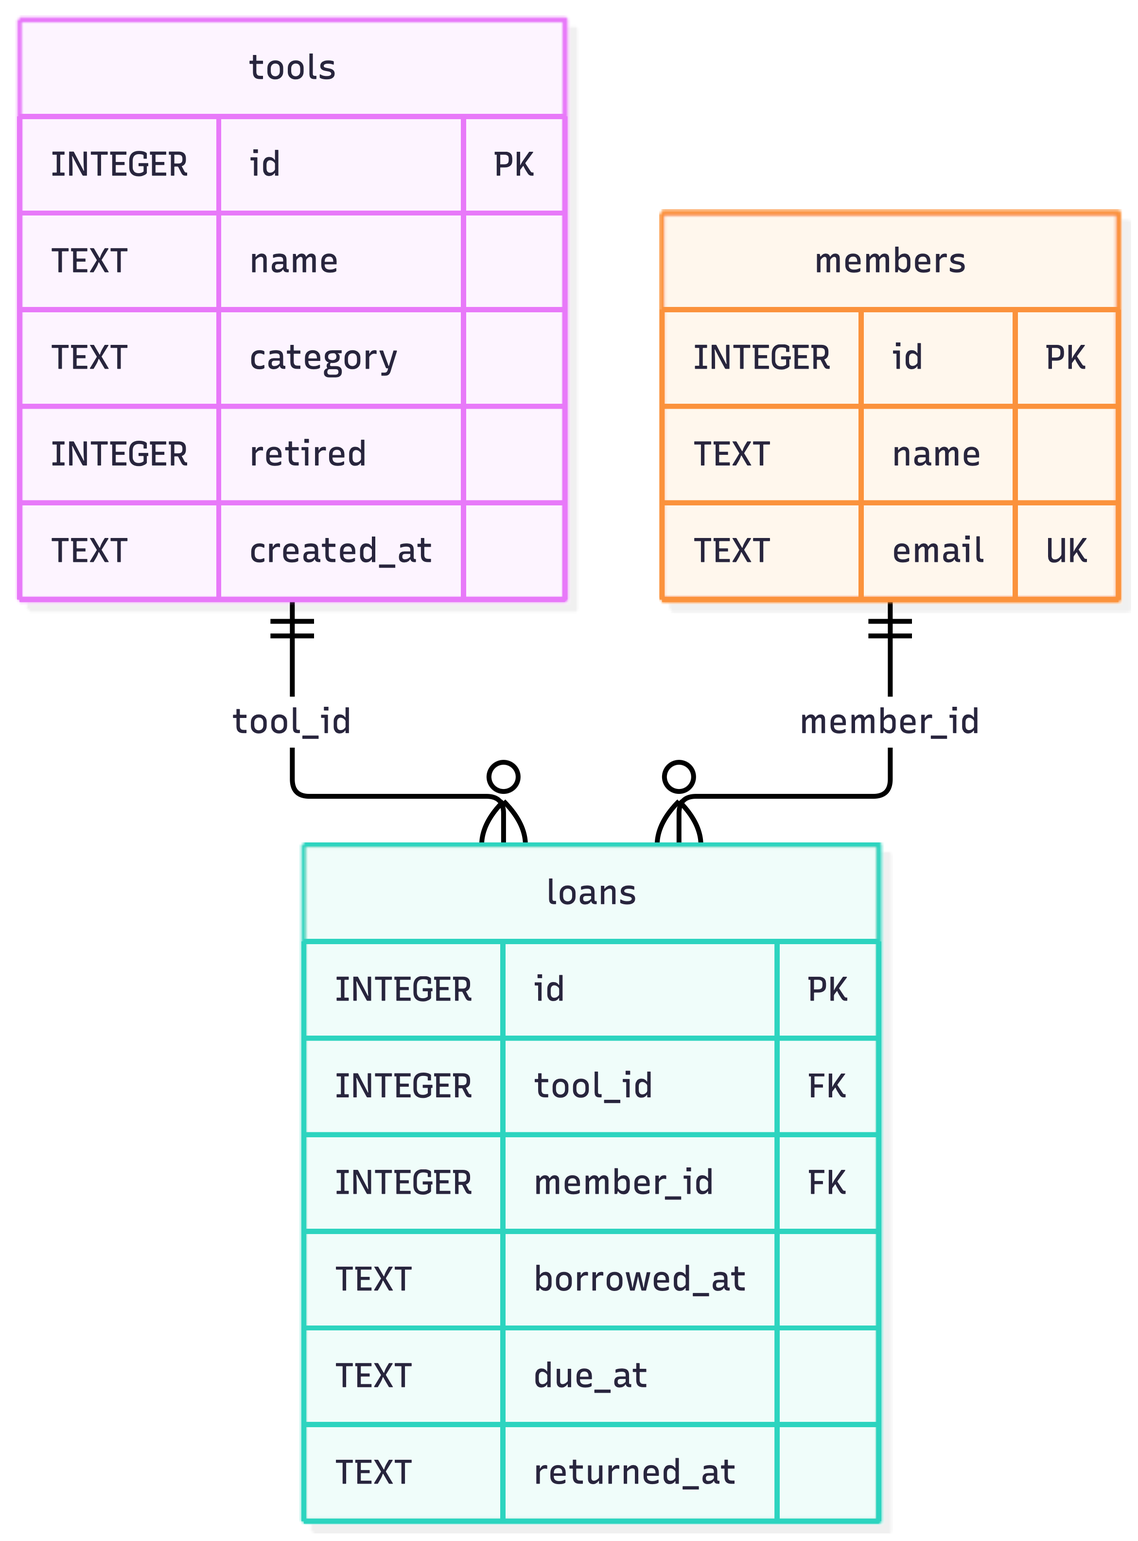
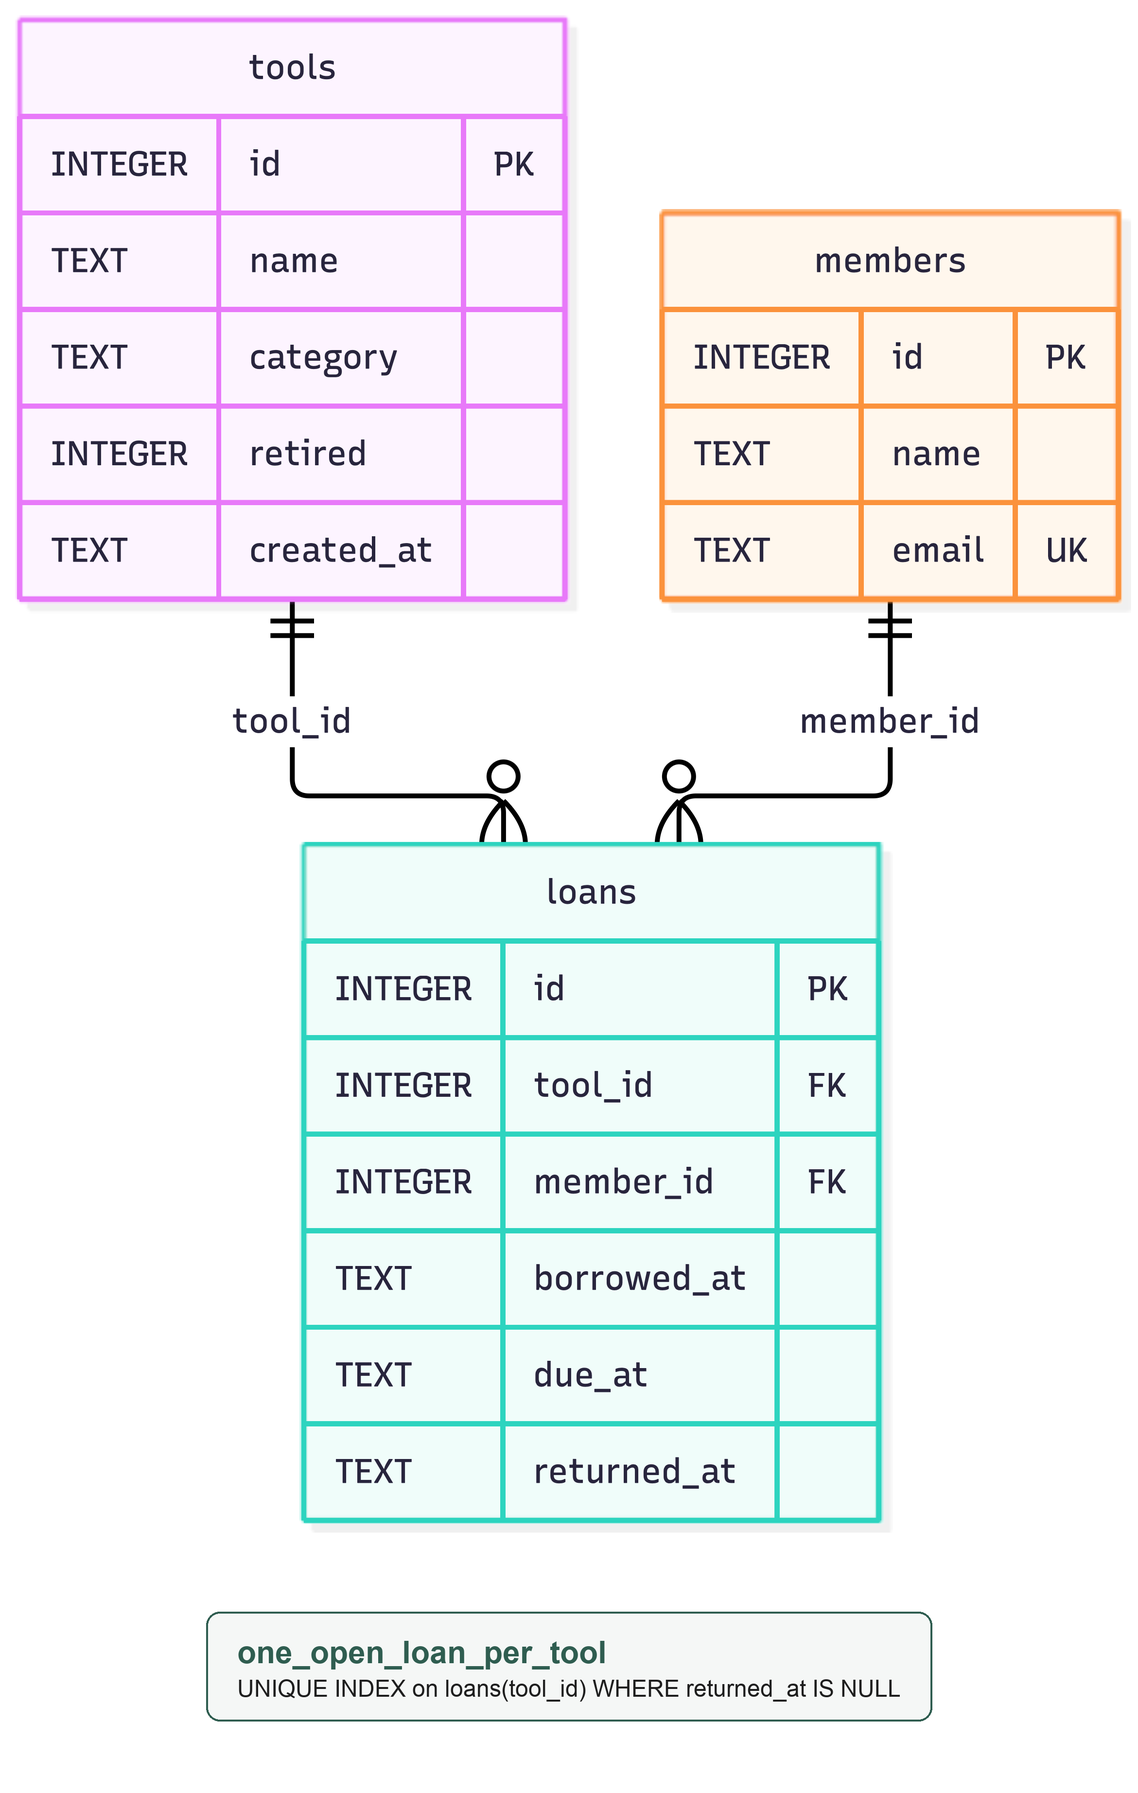
Prove a second open loan fails in SQLite, and pass the provided container check.

Changed region(s): [[0.0, 0.0, 0.9979, 1.0]]

diff --git a/tests/test_loans.py b/tests/test_loans.py
@@ -1,3 +1,5 @@
+import sqlite3
+
 import pytest
 
 from lend.db import connect, init_db
@@ -84,6 +86,35 @@ def test_borrow_tool_refuses_a_missing_member(db):
     tool_id = insert_tool(db)
     with pytest.raises(MemberNotFound):
         borrow_tool(db, tool_id, 99, now="2026-10-06T12:00:00+00:00")
+
+
+def test_open_loan_index_rejects_a_second_open_row(db):
+    tool_id = insert_tool(db)
+    member_id = add_member(db, "Ada", "ada@example.com")
+    borrowed = "2026-10-06T12:00:00+00:00"
+    due = "2026-10-13T12:00:00+00:00"
+
+    def insert_loan(returned_at):
+        db.execute(
+            """
+            INSERT INTO loans (tool_id, member_id, borrowed_at, due_at, returned_at)
+            VALUES (?, ?, ?, ?, ?)
+            """,
+            (tool_id, member_id, borrowed, due, returned_at),
+        )
+
+    insert_loan(None)
+    db.commit()
+    insert_loan("2026-10-07T12:00:00+00:00")
+    db.commit()
+    with pytest.raises(sqlite3.IntegrityError):
+        insert_loan(None)
+    db.rollback()
+    open_rows = db.execute(
+        "SELECT id FROM loans WHERE tool_id = ? AND returned_at IS NULL",
+        (tool_id,),
+    ).fetchall()
+    assert len(open_rows) == 1
 
 
 def test_borrow_tool_refuses_a_second_open_loan(db):

diff --git a/lend/db.py b/lend/db.py
@@ -51,25 +51,3 @@ def init_db():
         connection.executescript(SCHEMA)
     finally:
         connection.close()
-
-
-def database_summary():
-    path = database_path()
-    connection = connect()
-    try:
-        row = connection.execute(
-            """
-            SELECT
-              (SELECT COUNT(*) FROM tools) AS tools,
-              (SELECT COUNT(*) FROM members) AS members,
-              (SELECT COUNT(*) FROM loans) AS loans
-            """
-        ).fetchone()
-    finally:
-        connection.close()
-    return {
-        "path": str(path),
-        "tools": row["tools"],
-        "members": row["members"],
-        "loans": row["loans"],
-    }

diff --git a/AI_USAGE.md b/AI_USAGE.md
@@ -1,15 +1,17 @@
 | Date/commit | Tool | Prompt | Disposition (Accepted/Modified/Rejected) | What changed & why (if modified) | In my own words, how this works |
 |---|---|---|---|---|---|
 | 2026-09-30 | Cursor | Give me the following files: startup contract for Lend (PORT, DATA_DIR, 0.0.0.0, SQLite schema) plus ADR-1. | Accepted |  | `main` calls `init_db`, reads `PORT` (default 5000), and runs Flask on `0.0.0.0` with the reloader off. `database_path` joins `DATA_DIR` (default `data`) with `lend.db`. `connect` creates that directory, opens SQLite, turns on foreign keys, and returns rows as `sqlite3.Row`. `init_db` runs `SCHEMA`, which creates `tools`, `members`, `loans`, and the partial unique index `one_open_loan_per_tool` on `loans.tool_id` where `returned_at` is null. |
-| 2026-09-30 | Cursor | Render the home page with Jinja and show the SQLite file plus table counts. | Accepted |  | `main` still calls `init_db` before `create_app`, so the tables exist before the first request. `home` calls `database_summary` and passes that dict to `render_template` as `summary`. `database_summary` opens a connection, runs one SELECT of three COUNT subqueries, and returns `path`, `tools`, `members`, and `loans`. `home.html` prints those fields. Jinja escapes them. |
+| 2026-09-30 | Cursor | Render the home page with Jinja and show the SQLite file plus table counts. | Accepted |  | On that commit, `main` called `init_db` before `create_app`. `home` called `database_summary` and passed that dict to `render_template` as `summary`. `database_summary` opened a connection, ran one SELECT of three COUNT subqueries, and returned `path`, `tools`, `members`, and `loans`. `home.html` printed those fields. The 8 October desk replaced this. |
 | 2026-09-30 | Cursor | Catalog add, list, and retire, plus ADR-2. | Accepted |  | `add_tool` strips the name and category, rejects blanks, and inserts a row with `retired` 0. `list_tools` returns those rows as dicts ordered by name. `retire_tool` loads the tool, returns immediately if it is already retired, and raises `ToolIsOut` when a loan has `returned_at` null. Otherwise it sets `retired` to 1. The `/tools` routes open a connection, call one of those functions, and redirect back to the list. |
 | 2026-10-05 | Cursor | First commit of the day: register a member and borrow an available tool for seven days. | Accepted |  | `add_member` strips the name and lowercases the email, rejects a missing name or an email without `@`, and inserts into `members`. A duplicate email raises `LoanError`. `borrow_tool` starts an immediate transaction, refuses a missing or retired tool, refuses a missing member, and refuses a tool that already has a loan with `returned_at` null. It inserts into `loans` with `due_at` set by `due_at_for`, which adds `LOAN_DAYS` (7) to `borrowed_at`. The unique index `one_open_loan_per_tool` is the backstop. `/loans` lists members, available tools, and open loans. |
 | 2026-10-05 | Cursor | Second commit of the day: record a return, show overdue from the due date, and write ADR-3. | Accepted |  | `return_tool` loads the loan, raises `LoanNotFound` when the id is missing, and returns immediately when `returned_at` is already set. Otherwise it stores the current time in `returned_at` and does not update `tools`. `is_overdue` is false when `returned_at` is set. For an open loan it parses `now` and `due_at` and returns true when `now` is later. `list_open_loans` adds that boolean as `overdue`. The loans page posts to `/loans/<id>/return` and prints Overdue beside the due date. |
 | 2026-10-06 | Cursor | First commit of the day: catalog tests on a temporary SQLite file for add, list, and retire. | Accepted |  | `tests/test_catalog.py` sets `DATA_DIR` to a temporary folder, calls `init_db()`, and opens `connect()`. `test_add_tool_rejects_blank_name_and_writes_nothing` expects `CatalogError` and an empty `list_tools`. `test_add_tool_stores_an_available_tool` checks the stripped name and `retired` false. `test_retire_tool_refuses_a_tool_with_an_open_loan` inserts a member and a loan with `returned_at` null, then expects `ToolIsOut` and `retired` still false. `test_retire_tool_raises_for_an_unknown_id` expects `ToolNotFound`. |
-| 2026-10-06 | Cursor | Second commit of the day: loan tests, the coverage command and 96% result in the README, and ADR-4. | Accepted |  | `tests/test_loans.py` uses a temporary `DATA_DIR` like the catalog tests. `test_borrow_tool_sets_due_at_seven_days_later` checks `due_at_for` by borrowing at `2026-10-06T12:00:00+00:00` and expecting `2026-10-13T12:00:00+00:00`. `test_return_tool_closes_the_loan_and_frees_the_tool` calls `return_tool`, then checks that `list_open_loans` is empty, `list_available_tools` contains the hammer, and `tools.retired` is still 0. `test_is_overdue_is_true_only_for_an_open_loan_past_due` checks the three cases of `is_overdue`. `init_db` and `database_summary` now close their connections because a `with` block on a SQLite connection commits and does not close it. |
-| 2026-10-08 | Cursor | First commit of the day: ADR-5, no reminder worker. | Accepted |  | ADR-5 says overdue is not stored and no job sends email. `list_open_loans` calls `is_overdue` while it reads loans whose `returned_at` is null. `is_overdue` parses `now` and `due_at` and returns true only when `now` is later. After `return_tool` sets `returned_at`, that loan drops out of `list_open_loans`, so the page no longer shows it as overdue. |
+| 2026-10-06 | Cursor | Second commit of the day: loan tests, the coverage command and 96% result in the README, and ADR-4. | Accepted |  | `tests/test_loans.py` uses a temporary `DATA_DIR` like the catalog tests. `test_borrow_tool_sets_due_at_seven_days_later` checks `due_at_for` by borrowing at `2026-10-06T12:00:00+00:00` and expecting `2026-10-13T12:00:00+00:00`. `test_return_tool_closes_the_loan_and_frees_the_tool` calls `return_tool`, then checks that `list_open_loans` is empty, `list_available_tools` contains the hammer, and `tools.retired` is still 0. `test_is_overdue_is_true_only_for_an_open_loan_past_due` checks the three cases of `is_overdue`. On that commit, `init_db` and `database_summary` closed their connections, because a `with` block on a SQLite connection commits and does not close it. |
+| 2026-10-08 | Cursor | First commit of the day: ADR-5, no reminder to the member. | Accepted |  | ADR-5 refuses email and a second worker. The volunteer sees Overdue because `list_open_loans` calls `is_overdue` on loans whose `returned_at` is null. `is_overdue` parses `now` and `due_at` and returns true only when `now` is later. After `return_tool` sets `returned_at`, that loan drops out of `list_open_loans`. Whether overdue is stored is ADR-3. |
 | 2026-10-08 | Cursor | Second commit of the day: SDLC section in REPORT.md with the iterative process and the SMART goals the repo met. | Accepted |  | `REPORT.md` says the build was iterative: startup and catalog on 30 September, loans on 5 October, tests on 6 October. The startup goal is `python app.py` binding `0.0.0.0` and creating `$DATA_DIR/lend.db`. The catalog goal is `add_tool` and `retire_tool`. The loans goal is `borrow_tool`, `due_at_for`, `return_tool`, and `is_overdue`. The test goal is 96% from `pytest --cov=lend.catalog --cov=lend.loans --cov-report=term-missing`. The section also says no volunteer tried the desk, and the diagrams come later. |
-| 2026-10-08 | Cursor | Style the desk and explain the three-step journey so the home page shows what is free, out, and overdue. | Accepted |  | `home` calls `list_available_tools` and `list_open_loans` on one connection. `desk["free"]` is the length of the available list. `desk["out"]` is the length of the open loans. `desk["overdue"]` counts loans whose `overdue` flag is true. `list_open_loans` now includes `tool_id`. `render_tools` builds `open_ids` from those ids. The tools template shows Out when `tool.id` is in `open_ids`, and hides Retire in that case. The home template lists three steps: add a tool, add a member, lend for seven days. The loans template renders the Out now table before the forms. |
+| 2026-10-08 | Cursor | Style the desk and explain the three-step journey so the home page shows what is free, out, and overdue. | Accepted |  | This replaced the 30 September home page. `home` no longer calls `database_summary`. It calls `list_available_tools` and `list_open_loans` on one connection. `desk["free"]` is the length of the available list. `desk["out"]` is the length of the open loans. `desk["overdue"]` counts loans whose `overdue` flag is true. `list_open_loans` includes `tool_id`. `render_tools` builds `open_ids` from those ids. The tools template shows Out when `tool.id` is in `open_ids`, and hides Retire in that case. The home template lists three steps: add a tool, add a member, lend for seven days. The loans template renders the Out now table before the forms. |
 | 2026-10-08 | Cursor | Add a history page of returned loans and a repeat action that lends the same tool and member for another seven days. | Accepted |  | `list_loan_history` selects loans whose `returned_at` is not null, newest return first. `repeat_loan` loads that row, raises `LoanNotFound` if the id is missing, and raises `LoanError` if `returned_at` is still null. Otherwise it calls `borrow_tool` with the same `tool_id` and `member_id`, so `due_at_for` still adds `LOAN_DAYS` (7) and the old row is not changed. `GET /loans/history` renders that list. `POST /loans/<id>/repeat` redirects to the loans page on success. |
 | 2026-10-09 | Cursor | Add the architecture diagram to REPORT.md for the one process, catalog, and loans sharing SQLite. | Accepted |  | The diagram shows the browser hitting `app.py`. `app.py` renders the Jinja templates and calls either `lend/catalog.py` or `lend/loans.py`. Both call `connect` in `lend/db.py`, which opens `$DATA_DIR/lend.db`. History stays in the loans box because `list_loan_history` and `repeat_loan` live in `lend/loans.py`. `repeat_loan` calls `borrow_tool` in that same file. The dashed line from catalog to the database is `retire_tool` reading open loans with SQL, without importing `lend/loans.py`. |
-| 2026-10-11 | Cursor | Add the schema diagram for tools, members, and loans, including the one-open-loan index in the paragraph under the picture. | Accepted |  | `docs/schema.png` shows `tools`, `members`, and `loans`. `loans.tool_id` points at `tools.id` and `loans.member_id` points at `members.id`. `returned_at` is empty while the tool is out. The index `one_open_loan_per_tool` is not a column, so the paragraph says it allows only one loan row per tool with `returned_at` null. `is_overdue` reads `due_at` and does not store a flag. |
+| 2026-10-11 | Cursor | Add the schema diagram for tools, members, and loans, including the one-open-loan index in the paragraph under the picture. | Accepted |  | On that commit, `docs/schema.png` showed `tools`, `members`, and `loans`. `loans.tool_id` points at `tools.id` and `loans.member_id` points at `members.id`. `returned_at` is empty while the tool is out. The index was only in the paragraph: one loan row per tool with `returned_at` null. `is_overdue` reads `due_at` and does not store a flag. |
+| 2026-10-11 | Cursor | Prove the open-loan index with a direct insert, remove the unused home summary, and put the index on the schema figure. Narrow ADR-5 to the reminder, and walk one loan through the report. | Accepted |  | `test_open_loan_index_rejects_a_second_open_row` inserts one open loan and one returned loan for the same tool with SQL, then expects `sqlite3.IntegrityError` on a second open row. That is `one_open_loan_per_tool`, not the Python check in `borrow_tool`. `database_summary` is gone. Home already counts free, out, and overdue. ADR-5 rejects email and a notifications worker. The note on `docs/schema.png` names the index. The report walks add, borrow, overdue, return, and repeat. |
+| 2026-10-11 | Cursor | Copy the provided container template to the repo root and list the files the app needs to run. | Accepted |  | `Dockerfile` keeps the template's `python:3.12-slim`, `pip install -r requirements.txt`, `PORT=8000`, and `DATA_DIR=/data`. TODO 3 copies `app.py`, `lend/`, `templates/`, and `static/`. `CMD` is `python app.py`. `container/run.sh` reached HTTP 200 on port 8000 and on `PORT=9123`, found `lend.db` in `/data`, and saw the same row counts after a restart. |

diff --git a/REPORT.md b/REPORT.md
@@ -20,6 +20,20 @@ The goals below are the ones the repository actually met.
 
 What this process did not include is a volunteer sitting at the desk and trying the pages. I checked the flows myself: add a tool, retire it, refuse a retire while it is out, borrow, return, and see Overdue on a past due date. That is a developer check, not a user test. The schema below was drawn after those slices, because the tables and the seam between `lend/catalog.py` and `lend/loans.py` were still moving while the features landed.
 
+## One loan, end to end
+
+A volunteer adds a hammer on `/tools`. `add_tool` stores the name, the category, and `retired` as 0. They register a member on `/loans`. `add_member` stores the stripped name and a lowercased email, and rejects a second member with the same email. They lend the hammer. `borrow_tool` starts `BEGIN IMMEDIATE`, checks that the tool exists and is not retired, checks that the member exists, and checks that no loan for that tool still has `returned_at` null. It then inserts one row. `due_at_for` sets `due_at` to `borrowed_at` plus `LOAN_DAYS`, which is 7. The home page counts that hammer as out. `desk["free"]` no longer includes it.
+
+If the hammer is still out after `due_at`, `list_open_loans` calls `is_overdue` and the loans page shows Overdue on that row. Returning the hammer calls `return_tool`, which writes `returned_at` and leaves `tools.retired` at 0. The hammer is free again because `list_available_tools` hides a tool only when it is retired or has an open loan. The returned row shows on `/loans/history`. Repeat posts to `/loans/<id>/repeat`. `repeat_loan` calls `borrow_tool` with the same `tool_id` and `member_id`, so the old `returned_at` stays filled in and a new row is inserted for another seven days.
+
+The same rule is enforced in the database. `test_open_loan_index_rejects_a_second_open_row` inserts one open loan and one already returned loan for the same tool, then a second insert with `returned_at` null raises `sqlite3.IntegrityError`. That failure comes from `one_open_loan_per_tool`. `borrow_tool` also refuses a second open loan in Python, before the insert. The index is the backstop when that check is skipped.
+
+## Startup, and the seam Assignment 2 will use
+
+`python app.py` is the only start command. `main` calls `init_db` before it serves, so a fresh clone creates `$DATA_DIR/lend.db` with no prompt and no migration step. The process binds to `0.0.0.0` and reads `PORT`, which defaults to 5000. `connect` creates the data directory, turns on foreign keys, and returns rows as `sqlite3.Row`. The only dependency manifest is `requirements.txt` at the repo root. The app does not need a Dockerfile, a compose file, or a second process to run.
+
+Assignment 2 can split the two modules along the boundary that already exists. Catalog routes would keep `lend/catalog.py` and the `tools` table. Loan routes would keep `lend/loans.py`, `members`, and `loans`. The shared SQLite file is the part that would become two stores. Until then, `retire_tool` reads `loans` with SQL and does not import `lend/loans.py`. `borrow_tool` reads `tools.retired` through that same file.
+
 ## Architecture
 
 `python app.py` starts one process. The browser talks only to routes in `app.py`. Those routes render Jinja templates and `static/style.css` from the same process. Tool routes call `lend/catalog.py`. Loan, return, history, and repeat routes call `lend/loans.py`. Both modules ask `lend/db.py` for a connection, and that connection opens `$DATA_DIR/lend.db`.
@@ -32,6 +46,6 @@ History is a loans page, not a third domain. `repeat_loan` calls `borrow_tool` i
 
 `lend/db.py` creates three tables in `$DATA_DIR/lend.db`. Catalog owns `tools`. Loans owns `members` and `loans`. There is no history table. A returned loan stays in `loans` with `returned_at` filled in, and repeating it inserts a new row.
 
-`loans.tool_id` references `tools.id`, and `loans.member_id` references `members.id`. One tool and one member can each appear on many loan rows over time. The index `one_open_loan_per_tool` is the extra rule the picture cannot draw: only one row per tool may have an empty `returned_at`. While that field is empty, the tool is out. `is_overdue` compares `due_at` with the current time, so overdue is not a column.
+`loans.tool_id` references `tools.id`, and `loans.member_id` references `members.id`. One tool and one member can each appear on many loan rows over time. The note under the loans table is `one_open_loan_per_tool`: a unique index on `loans(tool_id)` where `returned_at` is null. It is not a column. While `returned_at` is empty, the tool is out. `is_overdue` compares `due_at` with the current time, so overdue is not a column either.
 
 ![Database schema of Lend](docs/schema.png)

diff --git a/ADR.md b/ADR.md
@@ -30,10 +30,10 @@ Decision: tests/test_catalog.py and tests/test_loans.py call add_tool, retire_to
 Alternatives considered: Coverage of the whole lend package, including app.py, rejected because untested route functions would make the percentage describe templates more than rules. Tests through the Flask client, rejected because they would repeat the same rules through form parsing.
 Consequences: A change to a borrow, return, retire, or overdue rule fails a test. A broken template can still pass this command.
 
-## [5]. No reminder worker
+## [5]. No reminder to the member
 Date: 2026-10-08
 Status: Decided
-Context: An open loan past its due date should be visible to the volunteer. A reminder email or a scheduled scan would need a second process, which this assignment does not allow.
-Decision: Do not build a reminder worker. is_overdue compares due_at with the current time when list_open_loans reads the open loans.
-Alternatives considered: A background job that marks loans overdue or sends email, rejected because it needs cron or a worker beside the one web process. A stored overdue column, rejected because it can disagree with the clock.
-Consequences: Overdue shows up only when someone opens the loan list. Returning a tool still clears it, because is_overdue is false once returned_at is set.
+Context: A member who still has a tool after due_at needs to hear about it from the volunteer at the desk. Sending that reminder from the app would need a mailer and a schedule beside the one web process.
+Decision: Do not email the member. The volunteer sees Overdue on the loans page, because list_open_loans calls is_overdue while it reads loans whose returned_at is null.
+Alternatives considered: Emailing the member when due_at passes, rejected because it needs a mailer outside this process. A notifications table drained by a second worker, rejected because this assignment allows one process only.
+Consequences: Nothing is sent when a loan becomes overdue. The loans page is the only place it shows, and only while that page is open. Whether overdue is stored is ADR-3, not this decision.

diff --git a/README.md b/README.md
@@ -28,3 +28,34 @@ pytest --cov=lend.catalog --cov=lend.loans --cov-report=term-missing
 ```
 
 The command covers `lend/catalog.py` and `lend/loans.py`. Route functions in `app.py` are outside that measurement.
+
+## Container contract
+
+`Dockerfile` at the repo root is the provided template. The image copies `app.py`, `lend/`, `templates/`, and `static/`, and starts with `python app.py`. `container/run.sh` reported:
+
+```
+=== SDD Assignment 1 contract check ===
+Repository: /Users/marijavelkoska/Desktop/assignment_1
+
+==> Repository shape
+  PASS  one Dockerfile, one manifest (requirements.txt)
+
+==> Build from a clean context, no build args
+  PASS  image built
+  PASS  image size 53 MB
+
+==> Start on PORT=8000 and reach it from the host
+  PASS  HTTP 200 from http://localhost:8000/
+
+==> SQLite file under DATA_DIR
+  PASS  found in /data: lend.db
+
+==> Data persists, and a second boot does not re-seed
+  PASS  volume at /data persists
+  PASS  row counts unchanged across restart: loans=0 members=0 tools=0
+
+==> PORT override is honoured (not hardcoded)
+  PASS  HTTP 200 from http://localhost:9123/
+
+=== ALL CHECKS PASSED ===
+```
